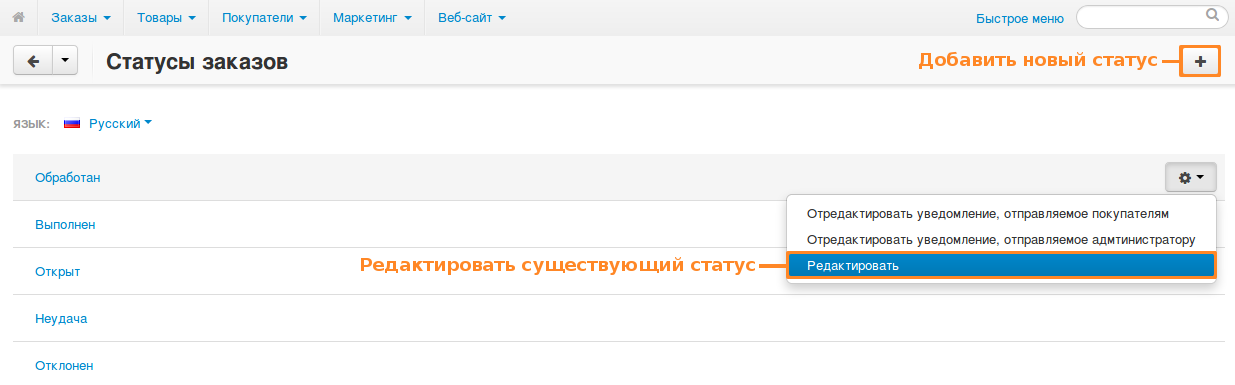
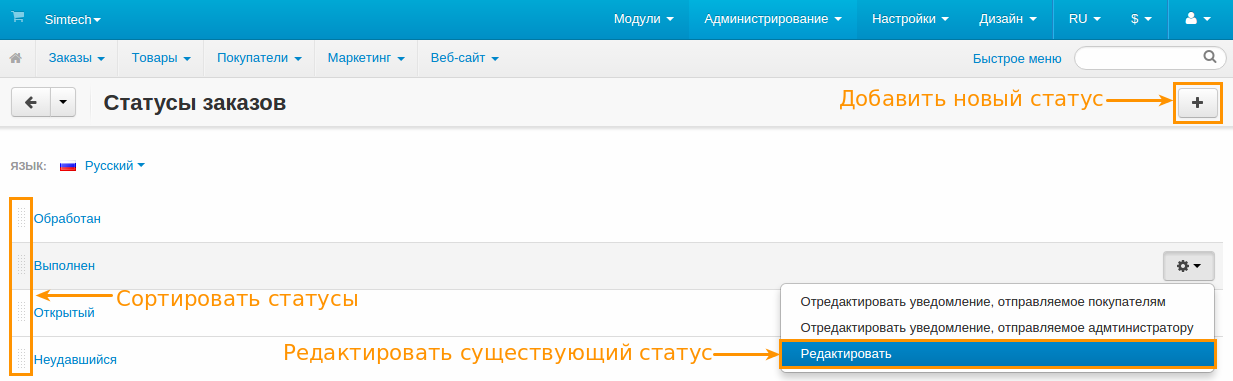
RU: User Guide: Statuses: Added information about drag & drop feature.

diff --git a/ru/user_guide/orders/order_statuses/set_status.rst b/ru/user_guide/orders/order_statuses/set_status.rst
@@ -8,14 +8,16 @@
 
    * создать новый статус (для этого нажмите кнопку **+**);
 
-   * отредактировать существующий статус (для этого нажмите на его название).
+   * отредактировать существующий статус (для этого нажмите на его название);
+
+   * отсортировать статусы с помощью перетаскивания.
+
+   .. fancybox:: img/order_status_02.png
+       :alt: Страница статусов заказа в CS-Cart.
 
    .. note::
 
        Одновременно может существовать до 26 статусов. Это ограничение существует потому, что для идентификации статусов в базе данных используются буквы английского алфавита.
-
-   .. fancybox:: img/order_status_02.png
-       :alt: Добавить новый статус заказа в CS-Cart.
 
 #. Укажите свойства статуса.
 

diff --git a/ru/user_guide/orders/order_statuses/index.rst b/ru/user_guide/orders/order_statuses/index.rst
@@ -6,7 +6,7 @@
 
     Если на одной установке CS-Cart у вас работает :doc:`несколько витрин </user_guide/stores/index>`, то для добавления статусов заказов вам понадобится перейти в режим **Все магазины**.
 
-На странице **Администрирование → Статусы заказов** можно изменить стандартный набор статусов. Вы можете как менять существующие статусы, так и создавать новые.
+На странице **Администрирование → Статусы заказов** можно изменить стандартный набор статусов. Вы можете сортировать статусы, редактировать существующие и создавать новые.
 
 .. note::
 
